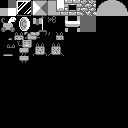
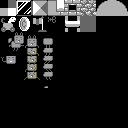
- Improve animations

Changed region(s): [[0.0, 0.25, 0.5, 0.625], [0.4375, 0.25, 0.5, 0.3125], [0.3438, 0.6562, 0.375, 0.6875]]

diff --git a/examples/LuciYFer/CHANGELOG.md b/examples/LuciYFer/CHANGELOG.md
@@ -1,4 +1,6 @@
 # ToDo:
+- Change name to Luz y Fer
+  - Luci -> Luz
 - System
   - Add states and screens
     - Start
@@ -22,6 +24,22 @@
   - Add bosses
   - Add secrets
   - Add doors/keys/buttons
+  - Characters
+    - Luci
+      - Improve climbing
+        - Animation
+        - Climbing up it's a few pixels too high when reaching solid
+      - Make it climb horizontally
+        - If surface allows
+    - Fer
+      - Maybe fly a bit?
+    - Lucifer
+      - Flies
+      - Summons something?
+  - Enemies
+    - God?
+      - Gods?
+    - Devil?
 
 # Changes
 
@@ -31,6 +49,7 @@
   - current x,y
   - camera_x
 - Change Fer back to palette 0
+- - Improve Luci and Fer's walk/run animation
 
 ## [18.10.2023]
 - Cleaning:
